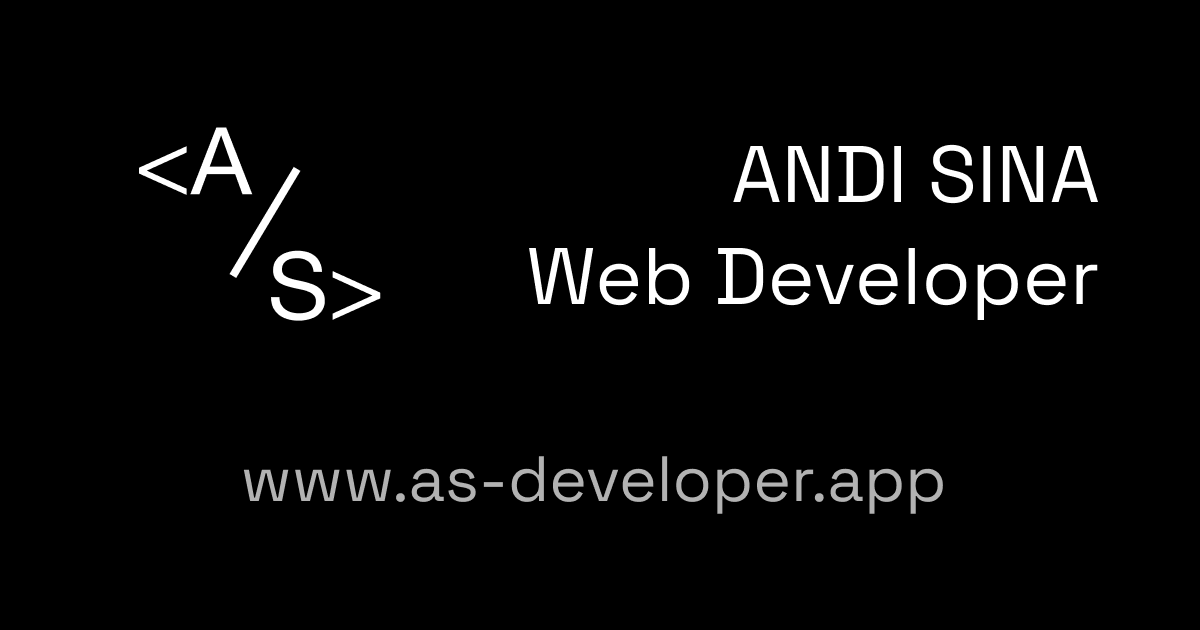
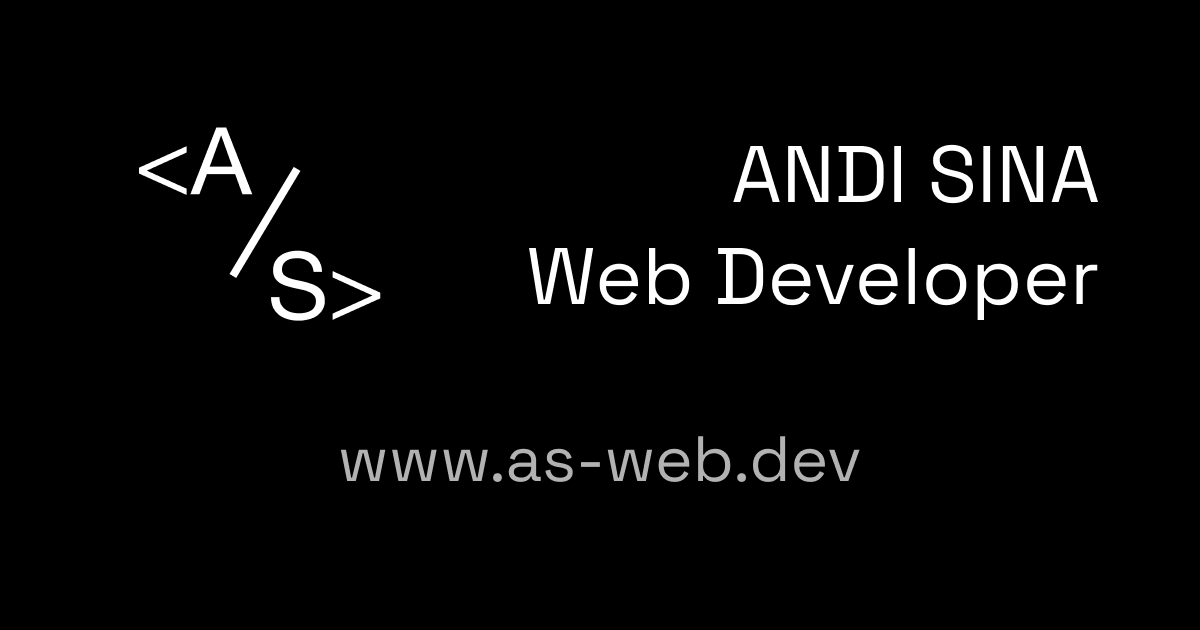
Added sitemap, robot and fixed index.html open graph

Changed region(s): [[0.185, 0.6937, 0.8017, 0.8143]]

diff --git a/index.html b/index.html
@@ -2,26 +2,40 @@
 <html lang="en">
   <head>
     <meta charset="UTF-8" />
+    <meta name="viewport" content="width=device-width, initial-scale=1.0" />
+
+    <title>Andi Sina – Web Developer</title>
+    <meta
+      name="description"
+      content="Andi Sina portfolio, web developer building fast, accessible web apps."
+    />
+    <!-- <meta name="theme-color" content="#000000" /> -->
+
+    <!-- Favicons -->
     <link rel="icon" href="/favicon.ico" sizes="32x32" />
     <link rel="icon" href="/favicon.svg" type="image/svg+xml" />
     <link rel="apple-touch-icon" href="/apple-touch-icon.png" />
-    <meta name="viewport" content="width=device-width, initial-scale=1.0" />
+
+    <!-- Open Graph -->
     <meta property="og:type" content="website" />
-    <meta property="og:site_name" content="AS Portfolio" />
+    <meta property="og:site_name" content="Andi Sina" />
+    <meta property="og:locale" content="en_US" />
     <meta property="og:title" content="Andi Sina – Web Developer" />
     <meta
       property="og:description"
       content="Andi Sina portfolio, web developer building fast, accessible web apps."
     />
-    <!-- <meta property="og:image" content="https://yourdomain.com/og-image.png" /> -->
+    <meta
+      property="og:image"
+      content="https://www.as-web.dev/og-image.png"
+    />
     <meta property="og:image:width" content="1200" />
     <meta property="og:image:height" content="630" />
-    <meta name="twitter:card" content="summary_large_image" />
     <meta
-      name="description"
-      content="Andi Sina portfolio, web developer building fast, accessible web apps."
+      property="og:image:alt"
+      content="Andi Sina, Web Developer – as-web.dev"
     />
-    <title>AS Portfolio</title>
+    <meta name="twitter:card" content="summary_large_image" />
   </head>
   <body>
     <div id="root"></div>
